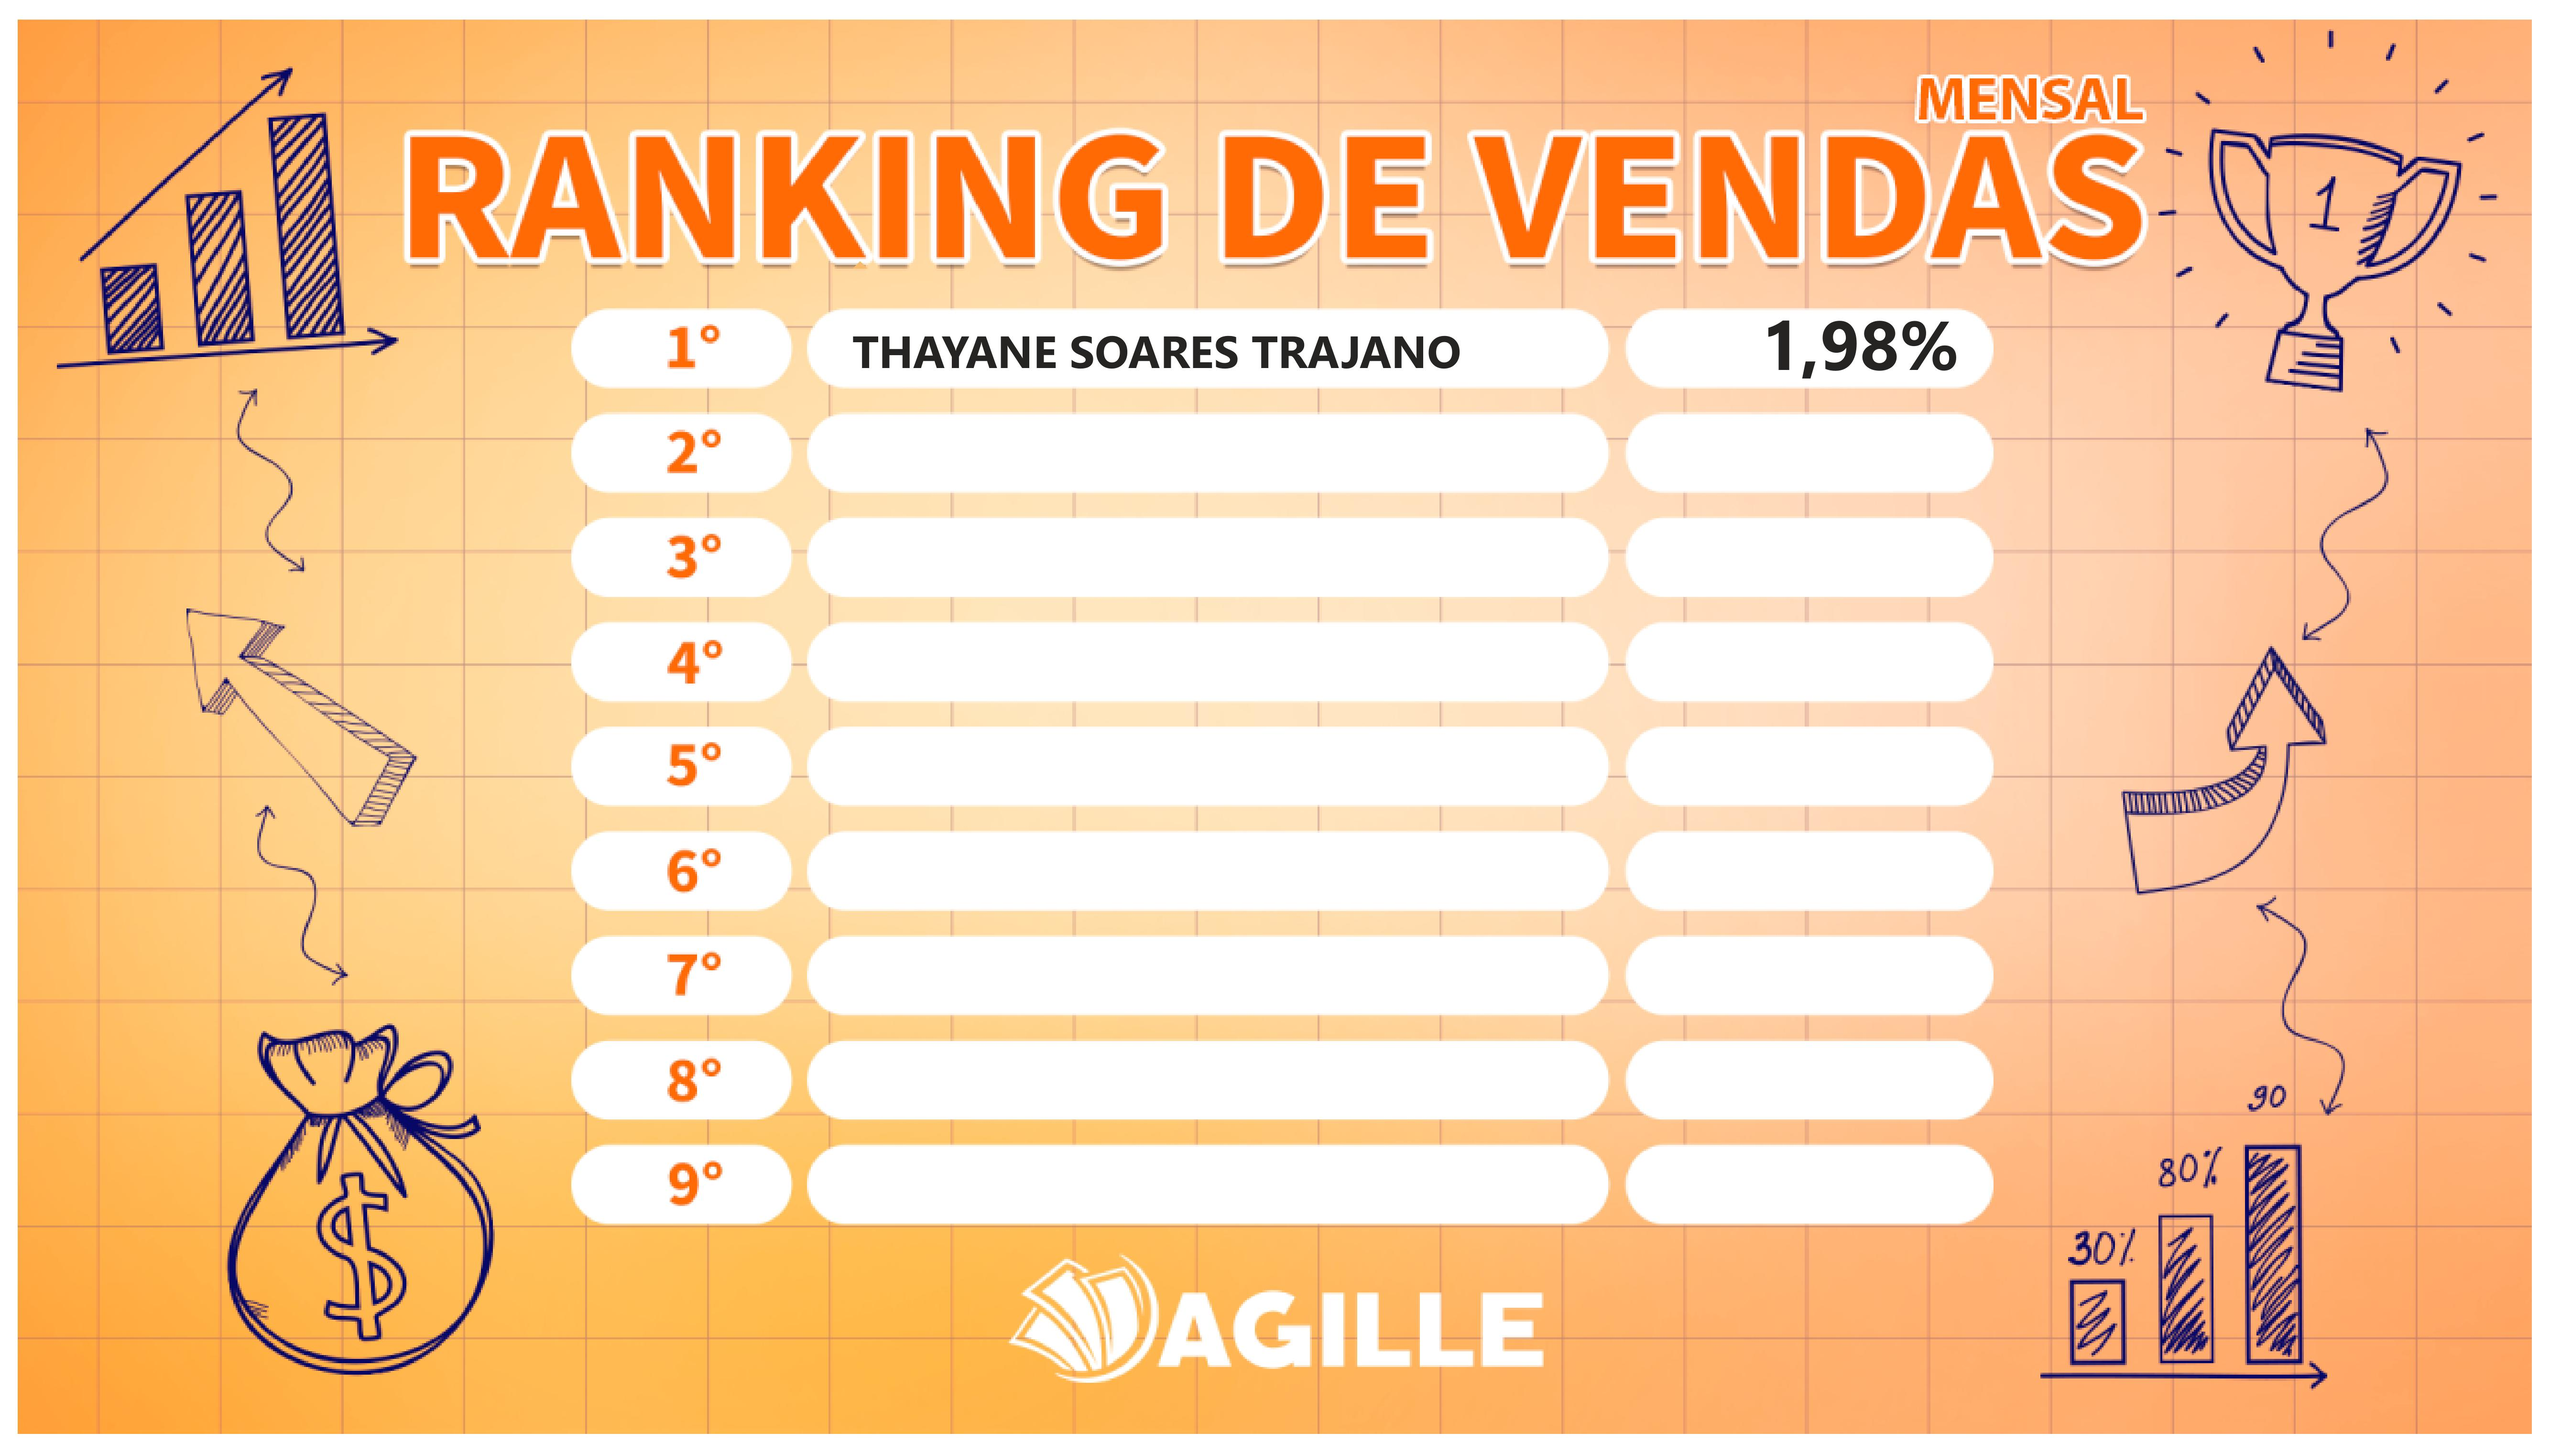
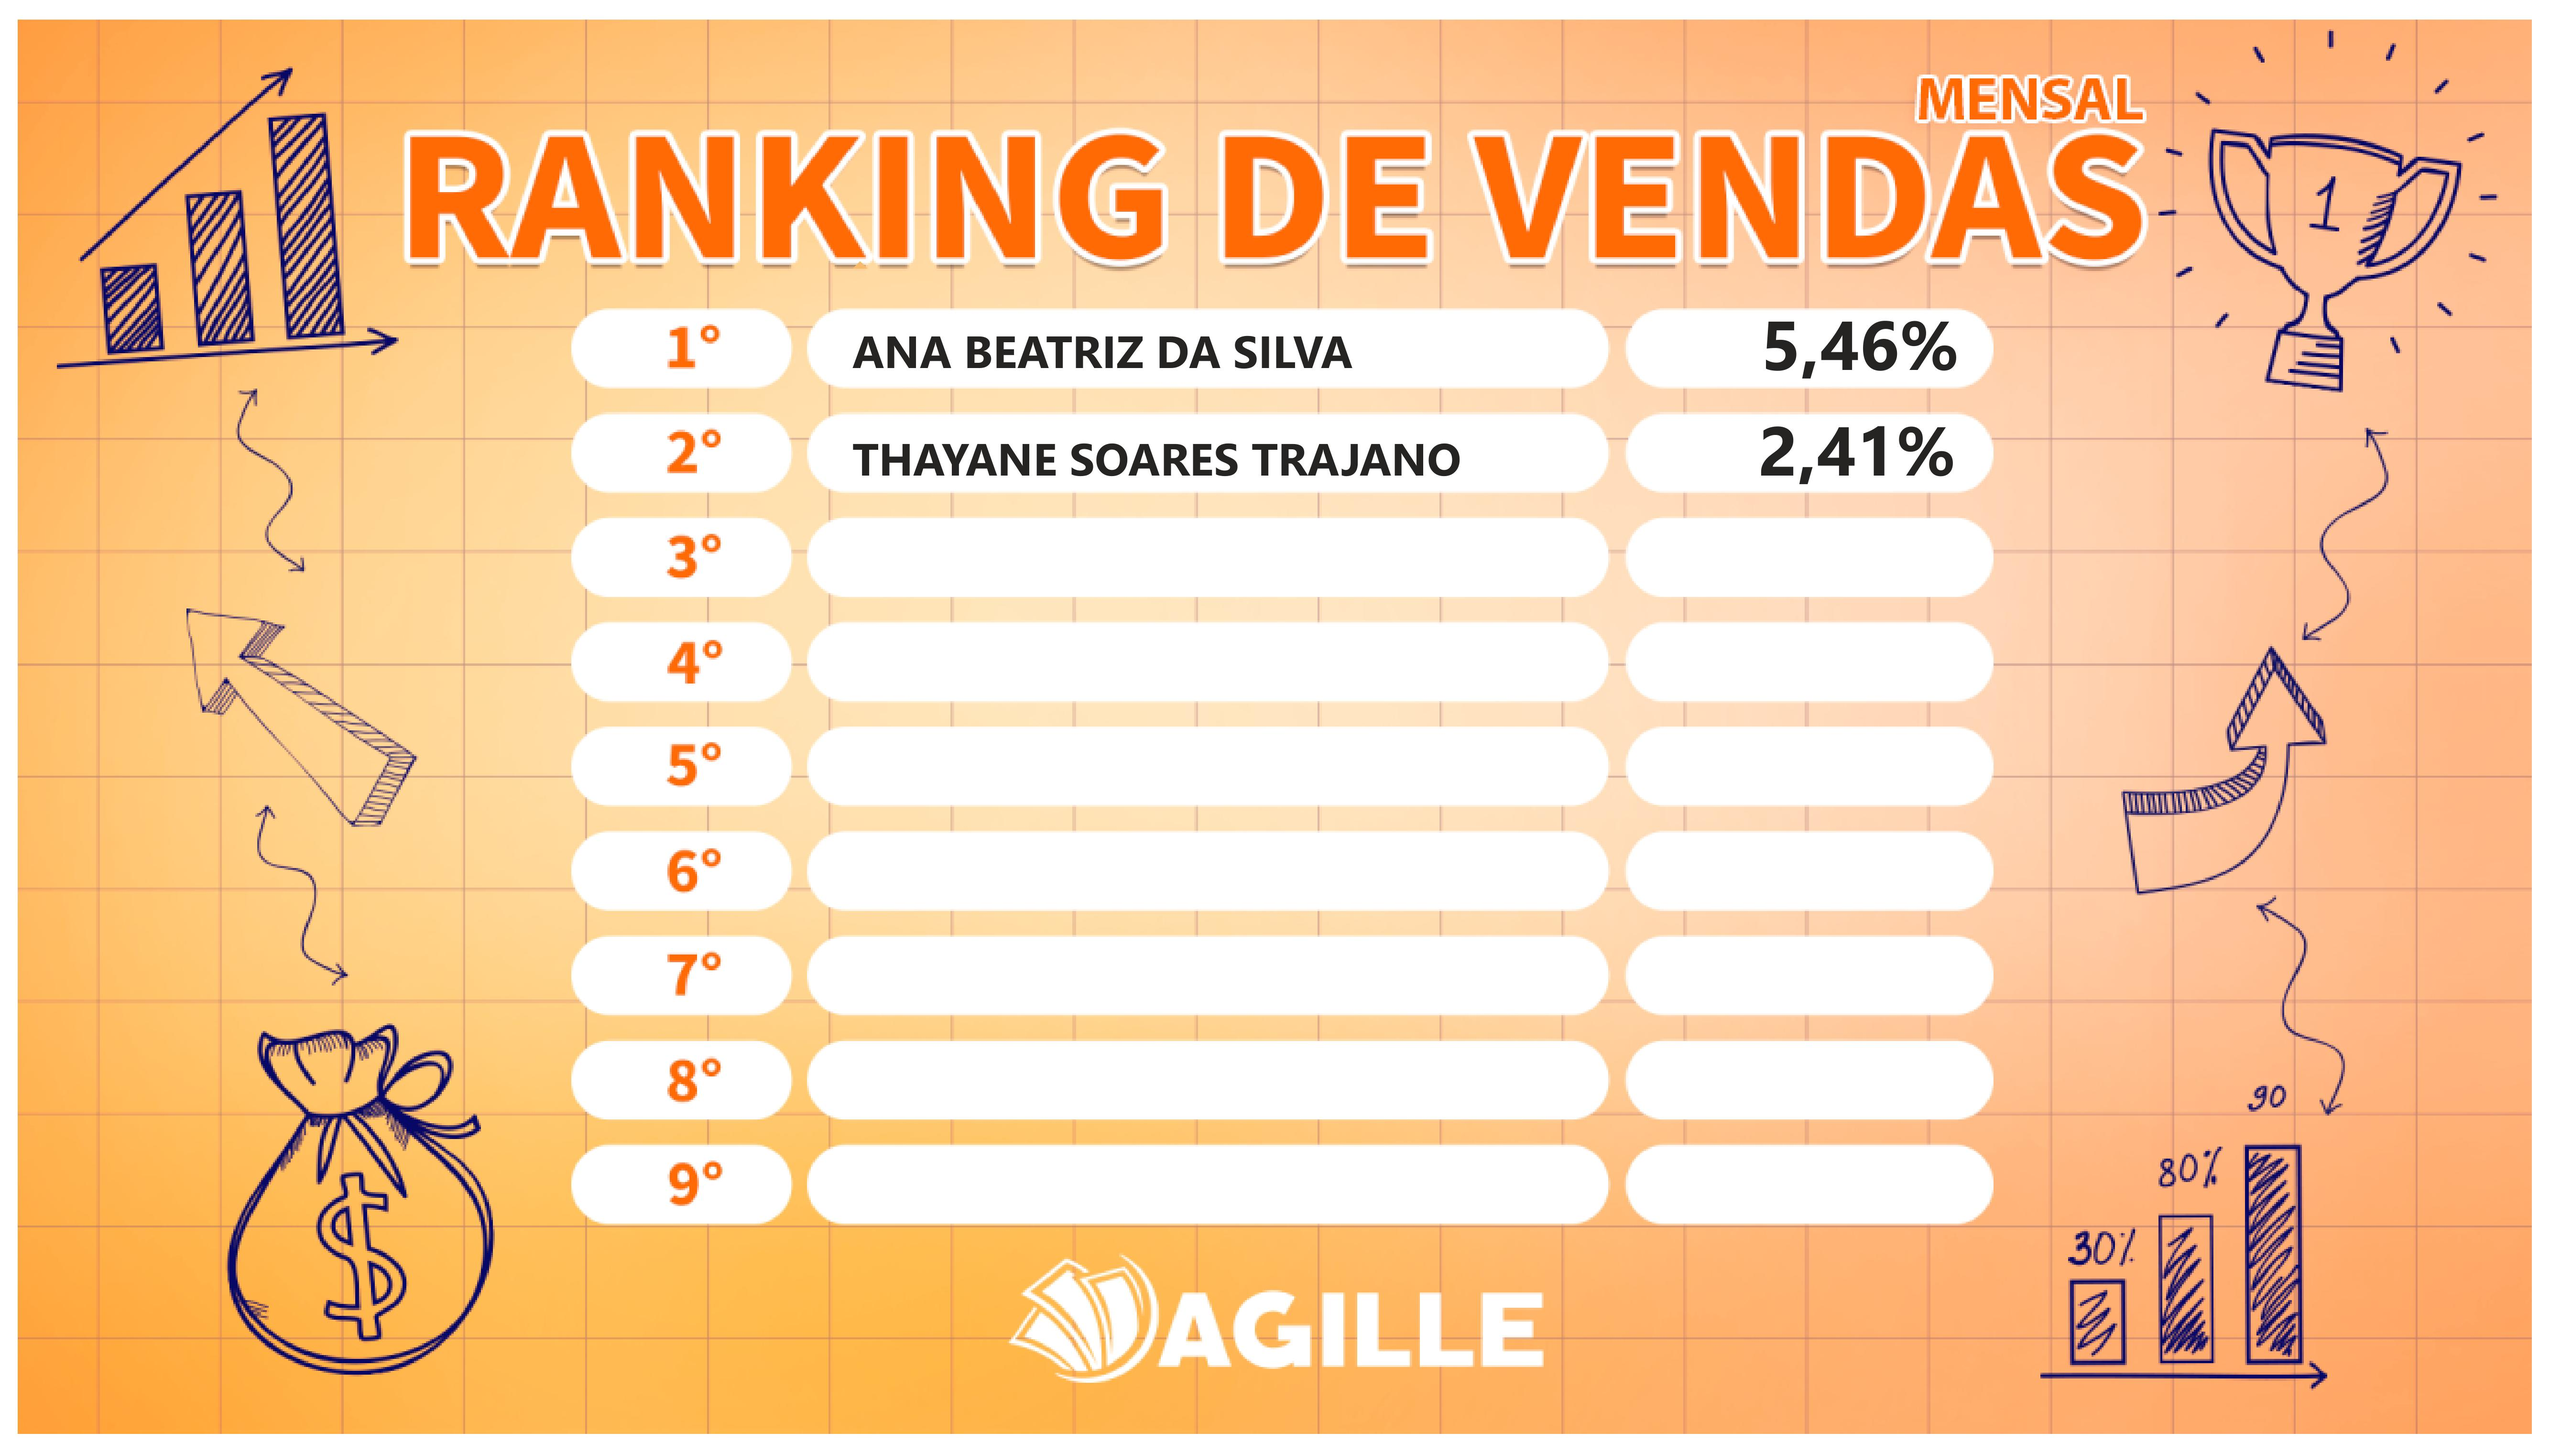
02102023³

diff --git a/index.html b/index.html
@@ -49,6 +49,9 @@
 			<div class="carousel-item" data-bs-interval="15000">
 				<img src="img/11.png" class="d-block w-100">
 			</div>
+			<div class="carousel-item" data-bs-interval="15000">
+				<img src="img/12.png" class="d-block w-100">
+			</div>
 		</div>
 		<button class="carousel-control-prev" type="button" data-bs-target="#carouselExampleFade" data-bs-slide="prev">
 		</button>
